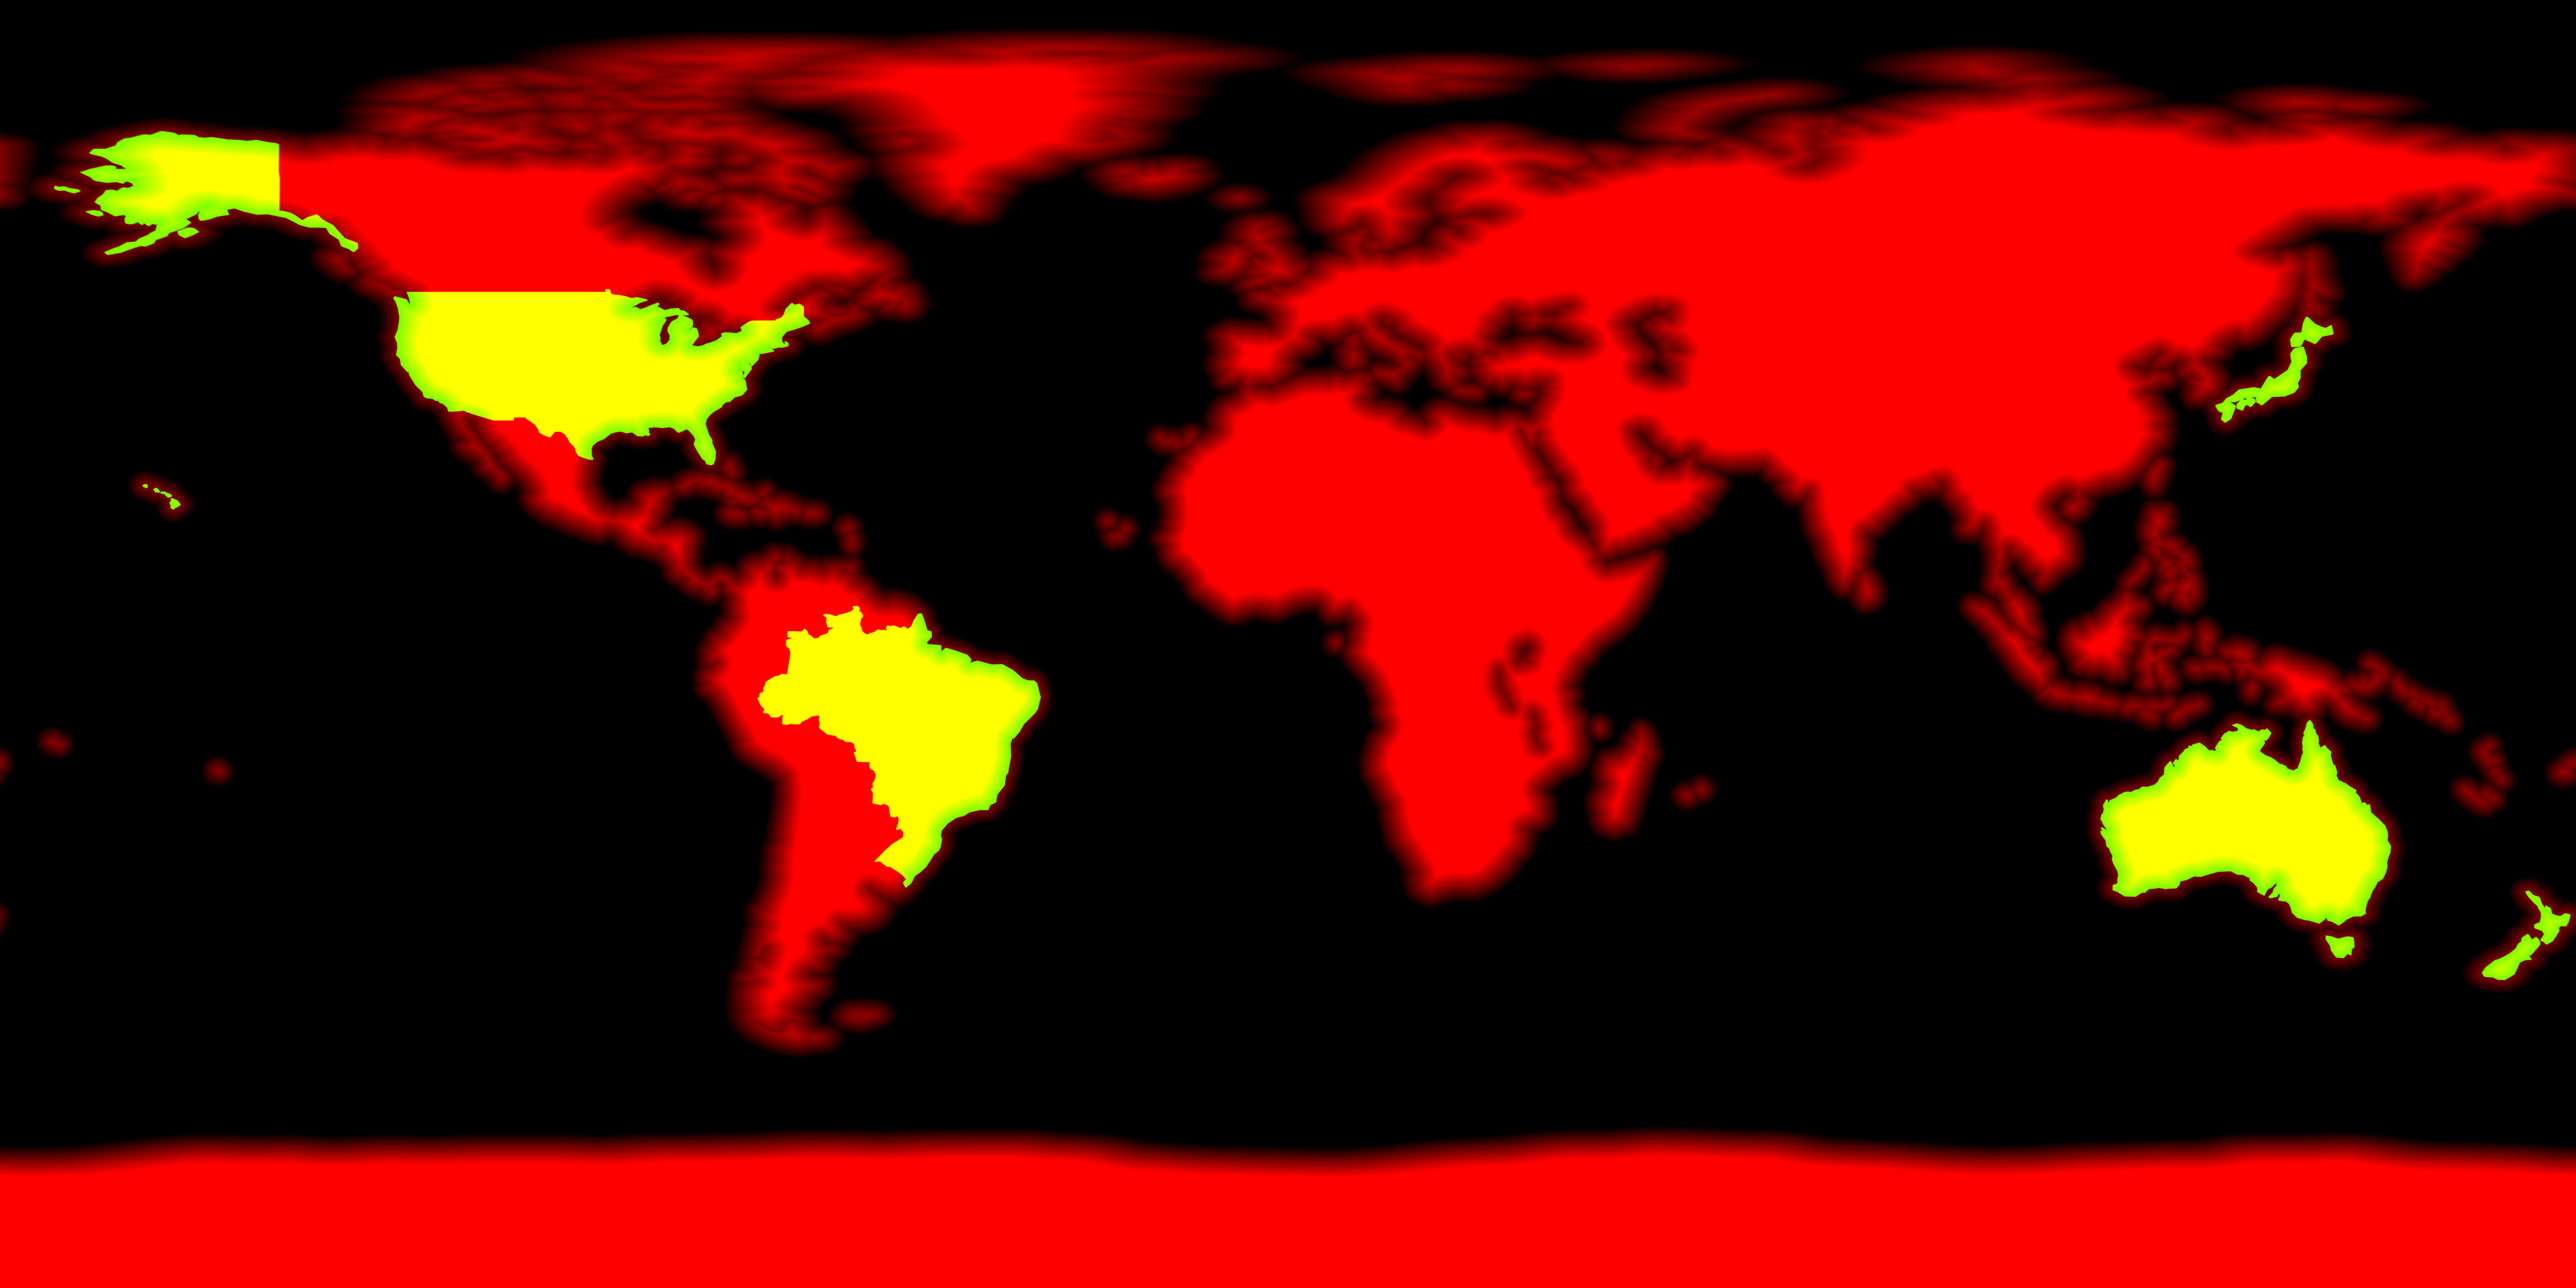
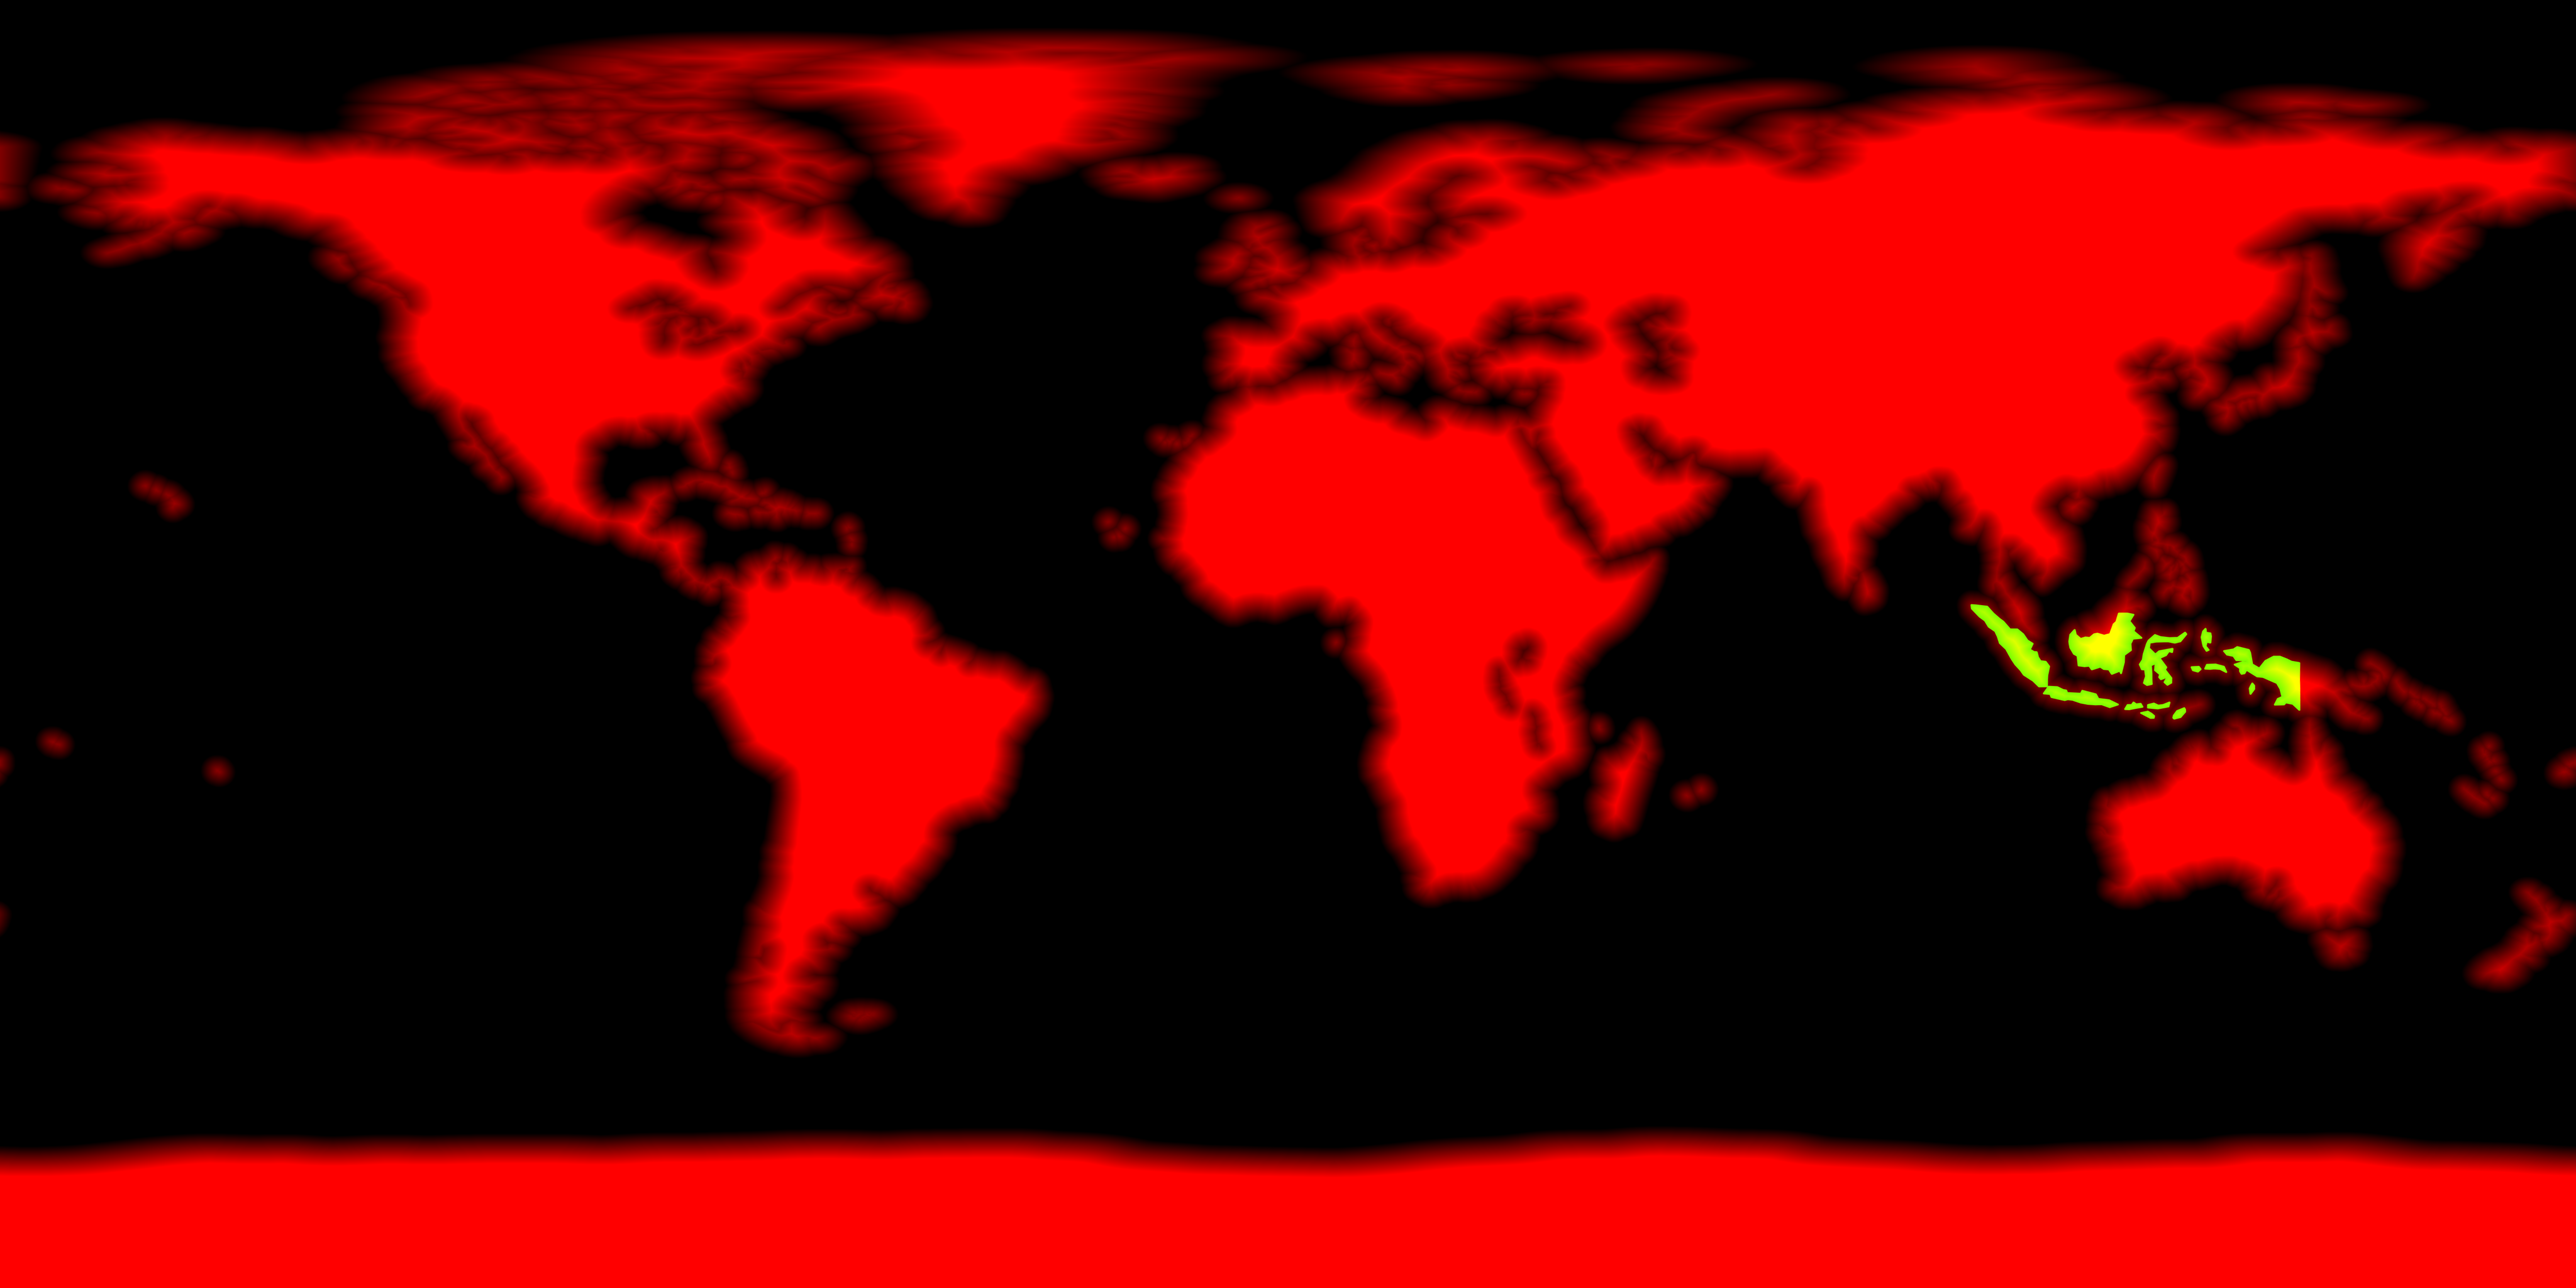
Globe v7: sand land with Indonesia highlighted, 9 flight lanes; keep labels inside viewport
Claude-Session: https://claude.ai/code/session_01N851SNWkDrNW5LWtaSgDuM

diff --git a/src/globe.js b/src/globe.js
@@ -37,13 +37,17 @@ import {
 const ORANGE = '#E54E26';
 const BLUE = '#224096';
 const JKT = [-6.2, 106.85];
-// Origins. Japan is in the design but still needs confirmation; New Zealand is a
-// placeholder for "other trusted origins" (no label, dashed, quieter).
-// USA and Brazil were tried: from Jakarta's side they arc in over the horizon as stray lines, so they are left out.
+// Origins = Indonesia's main bovine-meat import sources (BPS 2024 via Katadata: Australia 62%,
+// India 22% (mostly buffalo meat), USA 6%, Brazil 6%, New Zealand 4%). Japan is in the design
+// but is NOT in the BPS list and still needs Alvin's confirmation. Origins theHoreca does not
+// actually buy from should be removed here and in CITIES/LANES.
 const ORIGINS = [
   { key: 'au', name: 'Australia', p: [-27.47, 153.03], label: true },
   { key: 'perth', name: 'Perth', p: [-31.95, 115.86] },
+  { key: 'in', name: 'India', p: [19.08, 72.88], label: true },
   { key: 'jp', name: 'Japan', p: [35.68, 139.69], label: true },
+  { key: 'us', name: 'USA', p: [41.26, -95.94], label: true },
+  { key: 'br', name: 'Brazil', p: [-20.47, -54.62], label: true },
   { key: 'nz', name: 'New Zealand', p: [-41.29, 174.78], far: true },
 ];
 
@@ -279,12 +283,13 @@ export function createGlobe({ canvas, overlay, labels, reduceMotion = false, bas
 
   // ---- routes (spin-local). Arcs are great circles lifted off the surface; longer = taller.
   const R0 = 1.02; // just above the clay slab tops
+  const LIFT_MAX = 0.4; // tallest loop (USA/Brazil are almost antipodal to Jakarta)
   const jLocal = ll(JKT[0], JKT[1], R0);
   // The loop leans sideways (out of the great-circle plane) so it reads as a curve even
   // when you look straight down on it; `lean` alternates per city for variety.
   function arc(lat, lon, lean = 0.6) {
     const a = ll(lat, lon, 1).normalize(), b = ll(JKT[0], JKT[1], 1).normalize();
-    const ang = a.angleTo(b), s = Math.sin(ang), lift = 0.1 + 0.95 * (ang / Math.PI);
+    const ang = a.angleTo(b), s = Math.sin(ang), lift = Math.min(0.1 + 0.95 * (ang / Math.PI), LIFT_MAX);
     const side = new Vector3().crossVectors(a, b).normalize();
     const n = 160, pts = [];
     for (let k = 0; k <= n; k++) {
@@ -301,16 +306,23 @@ export function createGlobe({ canvas, overlay, labels, reduceMotion = false, bas
     au: [[-27.47, 153.03], [-33.87, 151.21], [-37.81, 144.96], [-31.95, 115.86], [-34.93, 138.6], [-23.38, 150.51], [-19.26, 146.82]],
     jp: [[35.68, 139.69], [34.69, 135.2], [31.6, 130.56]],
     nz: [[-36.85, 174.76], [-43.53, 172.64]],
+    in: [[19.08, 72.88], [27.88, 78.08], [17.39, 78.49], [28.67, 77.45]], // Mumbai port, Aligarh, Hyderabad, Ghaziabad (buffalo-meat plants)
+    us: [[41.26, -95.94], [37.75, -100.02], [35.22, -101.83], [40.42, -104.71]], // Omaha, Dodge City, Amarillo, Greeley
+    br: [[-23.55, -46.63], [-20.47, -54.62], [-16.69, -49.25], [-15.6, -56.1]], // Sao Paulo, Campo Grande, Goiania, Cuiaba
   };
   const FLIGHTS = Object.fromEntries(Object.entries(CITIES).map(([g, list]) => [g, list.map(([la, lo], i) => arc(la, lo, (i % 2 ? -1 : 1) * (0.45 + 0.1 * (i % 3))))]));
+  // Lanes are weighted roughly by import share: Australia most, then India, then the rest.
+  // D = flight time in seconds (launch to tail landing); long hauls fly a little longer.
   const LANES = [
     { g: 'au', P: 3.1, off: 0.0 }, { g: 'au', P: 3.7, off: 1.4 }, { g: 'au', P: 4.3, off: 2.6 },
-    { g: 'jp', P: 3.9, off: 0.8 }, { g: 'jp', P: 5.3, off: 3.1 }, { g: 'nz', P: 4.9, off: 2.0 },
+    { g: 'in', P: 3.5, off: 0.6 }, { g: 'in', P: 4.6, off: 2.3 },
+    { g: 'us', P: 4.4, off: 1.1, D: 3.4 }, { g: 'br', P: 4.8, off: 3.3, D: 3.4 },
+    { g: 'jp', P: 4.5, off: 0.8 }, { g: 'nz', P: 4.9, off: 2.0 },
   ];
-  const FLIGHT_T = 2.6; // seconds from launch to the tail landing in Jakarta
+  const FLIGHT_T = 2.6;
 
   // ---- comet particles (one dynamic point cloud for every comet)
-  const PMAX = 2400;
+  const PMAX = 6000; // peak is ~4,900 grains with all nine lanes in flight
   const pPos = new Float32Array(PMAX * 3), pSize = new Float32Array(PMAX), pAlpha = new Float32Array(PMAX), pHeat = new Float32Array(PMAX);
   const pGeo = new BufferGeometry();
   const attr = (a, n) => new BufferAttribute(a, n).setUsage(DynamicDrawUsage);
@@ -487,10 +499,11 @@ export function createGlobe({ canvas, overlay, labels, reduceMotion = false, bas
     pc = 0;
     if (live) {
       if (reduceMotion) {
-        routes.forEach((r, i) => streak(900 + i, r, 1, { a: r.o.far ? 0.35 : 0.6, sk, still: true }));
+        // Static arcs only for origins on Jakarta's side; USA/Brazil would cut across the face as long lines.
+        routes.forEach((r, i) => { if (r.ang < 2) streak(900 + i, r, 1, { a: r.o.far ? 0.35 : 0.6, sk, still: true }); });
       } else {
         LANES.forEach((L, li) => {
-          const T = clock + L.off, k = Math.floor(T / L.P), tau = (T - k * L.P) / FLIGHT_T;
+          const T = clock + L.off, k = Math.floor(T / L.P), tau = (T - k * L.P) / (L.D || FLIGHT_T);
           const list = FLIGHTS[L.g], f = list[Math.floor(rnd(li * 31 + k, 11) * list.length)];
           streak(li * 1000 + (k % 997), f, tau, { a: L.g === 'nz' ? 0.8 : 1, sk });
         });
@@ -548,7 +561,7 @@ export function createGlobe({ canvas, overlay, labels, reduceMotion = false, bas
     start, stop, resize,
     renderOnce() { frame(performance.now()); },
     // testing hook: jump the flight clock (seconds) so stills are reproducible
-    _setClock(t) { clock = t; },
+    _setClock(t, spinOffset) { clock = t; if (spinOffset != null) spinA = faceY + spinOffset; },
     destroy() {
       stop(); window.removeEventListener('resize', resize);
       geo.dispose(); mat.dispose(); tex.dispose(); pGeo.dispose(); pMat.dispose(); renderer.dispose();

diff --git a/src/main.js b/src/main.js
@@ -124,8 +124,23 @@ if (!reduce) {
   });
   ScrollTrigger.create({
     trigger: '#originTrack', start: 'top bottom', end: 'bottom top',
-    onToggle: (s) => { if (!globe) return; if (s.isActive && !reduce) globe.start(); else { globe.stop(); globe.renderOnce(); } },
+    onToggle: (s) => {
+      if (!globe) return;
+      if (s.isActive && !reduce) { globe.start(); gsap.ticker.add(clampLabels); }
+      else { globe.stop(); globe.renderOnce(); gsap.ticker.remove(clampLabels); }
+    },
   });
+  // Keep globe labels inside the viewport (e.g. "Jakarta" passing the left limb on phones).
+  // The module positions labels with `transform`; we nudge with the separate `translate` property.
+  function clampLabels() {
+    const m = 8, vw = document.documentElement.clientWidth;
+    $$('.globe-label').forEach((l) => {
+      const dx = +(l.dataset.dx || 0), r = l.getBoundingClientRect();
+      const left = r.left - dx, right = r.right - dx;
+      const nd = left < m ? m - left : right > vw - m ? vw - m - right : 0;
+      if (nd !== dx) { l.dataset.dx = nd; l.style.translate = nd ? `${nd}px 0` : ''; }
+    });
+  }
   if (reduce) { globe?.setProgress(1); globe?.renderOnce(); }
 })();
 

diff --git a/tools/bake-globe.html b/tools/bake-globe.html
@@ -11,7 +11,7 @@
         stored as 0.5 + sd / (2 * RANGE). The shader turns this into a
         pixel-sharp coastline at any zoom, the rounded clay shoulder, the
         contact crease and the cast shadow.
-    G = tone mask (1 = terracotta countries, 0 = sand). Crisp, anti-aliased.
+    G = tone mask (1 = terracotta = Indonesia only, 0 = sand). Crisp, anti-aliased.
     B = 0, A = 255.
 
   The SVG is in Robinson projection; it is reprojected to equirectangular
@@ -26,7 +26,7 @@ window.bake = async function (svgText, opt = {}) {
   const UP = 2;                            // EDT is computed at 2x and averaged down
   const W2 = W * UP, H2 = H * UP;
   const S = opt.raster || 5;               // SVG raster scale (2000 x 857 viewBox)
-  const TONE = new Set(opt.tone || ['AU', 'Australia', 'JP', 'Japan', 'NZ', 'New Zealand', 'US', 'United States', 'BR', 'Brazil']);
+  const TONE = new Set(opt.tone || ['ID', 'Indonesia']);
   const t0 = performance.now(), log = (m) => console.log(((performance.now() - t0) / 1000).toFixed(1) + 's ' + m);
 
   // Robinson calibration fitted to the supplied SVG (rms < 3px)
